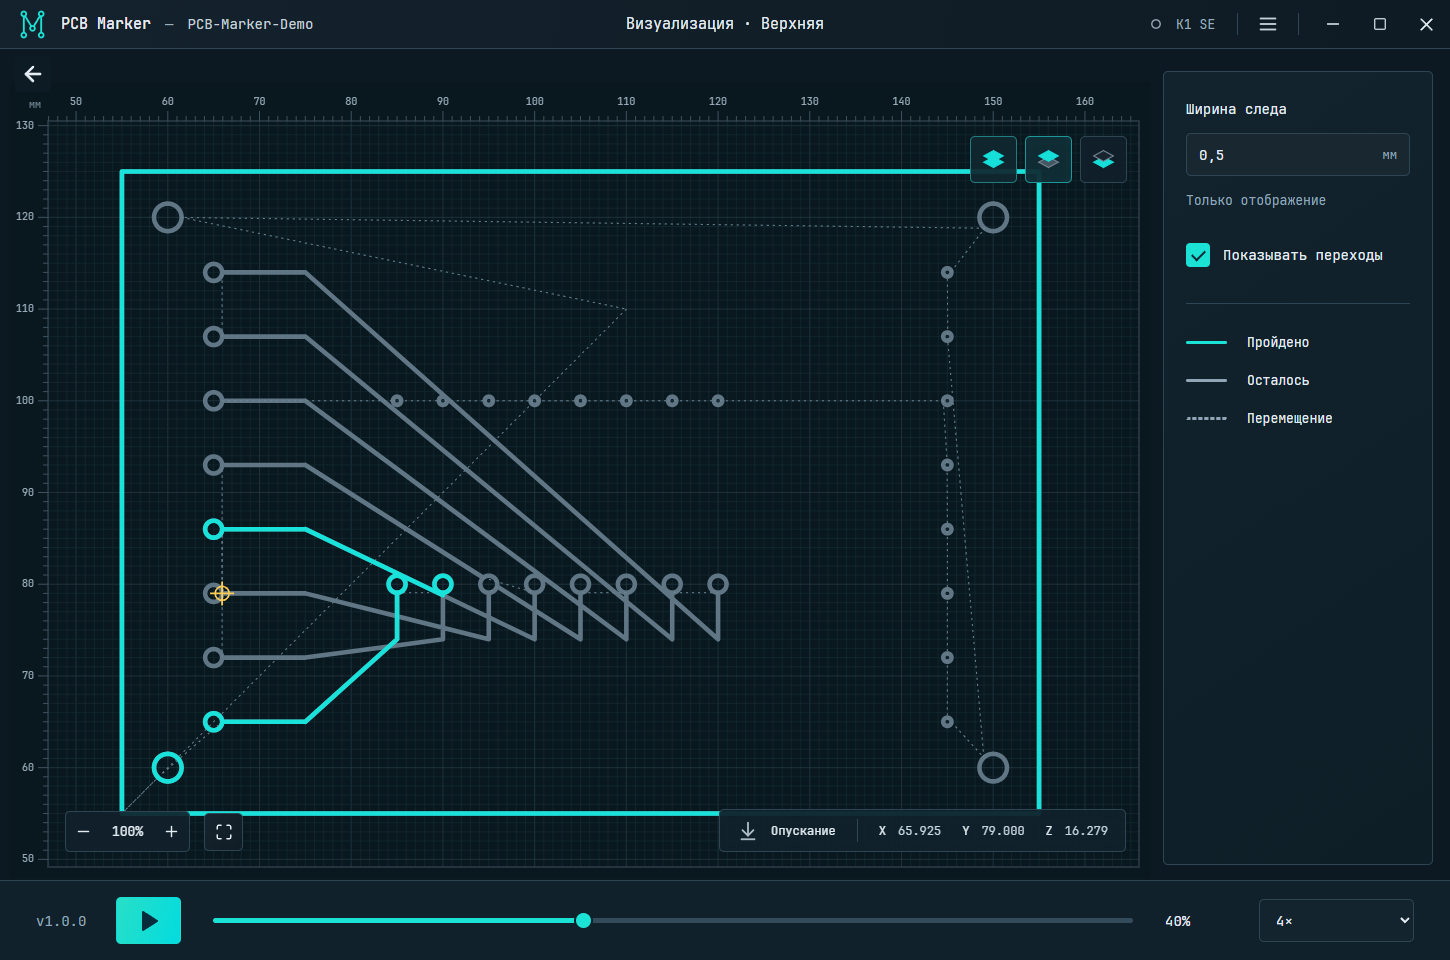
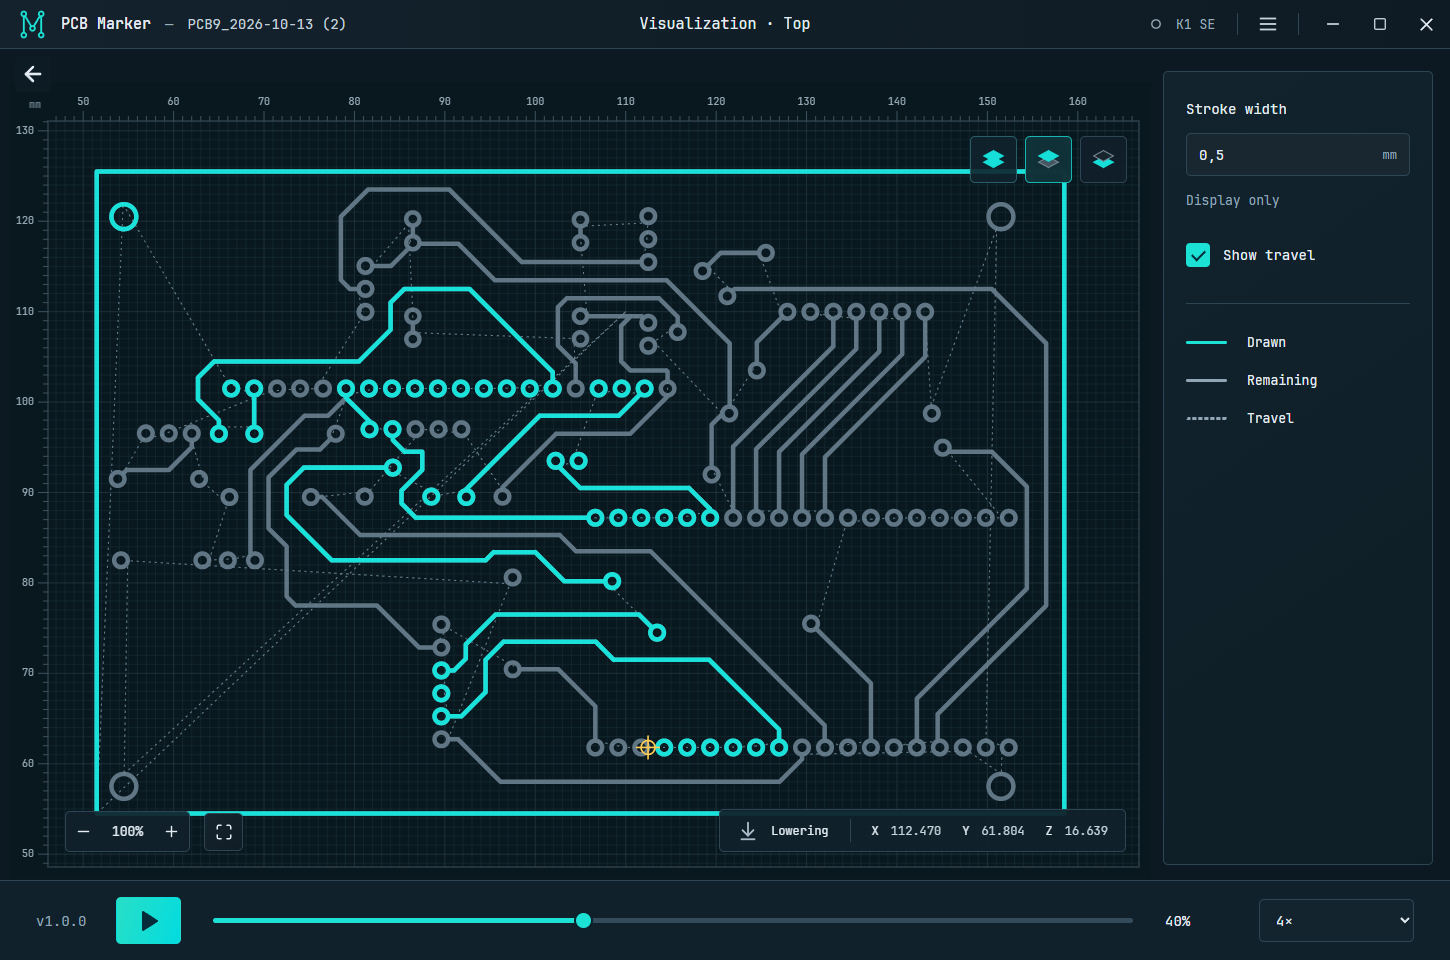
Use English documentation and screenshots of the provided PCB

diff --git a/README.md b/README.md
@@ -1,116 +1,115 @@
 <p align="center">
-  <img src="https://raw.githubusercontent.com/zufari4/pcb-marker/main/assets/icon.png" width="112" alt="PCB Marker — буква М из дорожек и контактных колец">
+  <img src="https://raw.githubusercontent.com/zufari4/pcb-marker/main/assets/icon.png" width="112" alt="PCB Marker — an M made of PCB traces and pads">
 </p>
 <h1 align="center">PCB Marker</h1>
-<p align="center"><b>От Gerber-файла до рисунка на плате — вашим 3D-принтером.</b></p>
-<p align="center">Маркер, заготовка и понятный интерфейс. Загрузите плату, проверьте маршрут и начинайте рисовать.</p>
+<p align="center"><b>Turn your 3D printer into a PCB marker plotter.</b></p>
+<p align="center">Open a Gerber file, align your board, preview the path, and start drawing.</p>
 <p align="center">
-  <a href="https://github.com/zufari4/pcb-marker/releases/latest">Скачать для Windows</a> ·
-  <a href="#-первый-запуск">Первый запуск</a> ·
-  <a href="https://github.com/zufari4/pcb-marker/issues">Обратная связь</a>
+  <a href="https://github.com/zufari4/pcb-marker/releases/latest">Download for Windows</a> ·
+  <a href="#-getting-started">Getting started</a> ·
+  <a href="https://github.com/zufari4/pcb-marker/issues">Feedback</a>
 </p>
-<p align="center">Windows x64 · Русский / English · MIT · Автор: <b>zufari</b></p>
+<p align="center">Windows x64 · English / Russian · MIT</p>
 
-![Просмотр платы в PCB Marker](https://raw.githubusercontent.com/zufari4/pcb-marker/main/docs/screenshots/board.png)
+![Board view in PCB Marker](https://raw.githubusercontent.com/zufari4/pcb-marker/main/docs/screenshots/board.png)
 
-## ✨ Что умеет PCB Marker
+## ✨ What you can do
 
-- **Открывает Gerber ZIP** — перетащите архив в окно или выберите «Открыть файл» в меню.
-- **Показывает обе стороны** — переключайте верхнюю, нижнюю или смотрите их вместе. Масштаб сохраняется.
-- **Привязывает рисунок по четырём углам** — учитывает положение и поворот заготовки, сохраняя масштаб 1:1.
-- **Помогает проверить маршрут** — визуализация и пробный прогон без касания платы.
-- **Рисует дорожки и контактные площадки** — при желании добавляет границы платы.
-- **Показывает выполнение** — пройденные участки, положение маркера и процент готовности. Пауза, продолжение и остановка рядом.
-- **Даёт настроить движение** — отдельные скорости рисования, переходов, подъёма и опускания Z.
-- **Говорит на двух языках** — русский, English или язык системы. Шрифт встроен, интернет для интерфейса не нужен.
-- **Экспортирует G-code** и проверяет наличие новых версий по вашему запросу.
+- **Open Gerber ZIP files** — drop an archive into the app or choose Open file from the menu.
+- **View both sides** — switch between top, bottom, or both layers without losing your zoom level.
+- **Align with four corners** — account for board position and rotation while keeping a 1:1 scale.
+- **Preview before drawing** — inspect the route and run it above the board without making contact.
+- **Draw tracks and pad rings** — optionally add the board boundaries.
+- **Follow the progress** — see completed paths, marker position, and progress, with pause, resume, and stop close at hand.
+- **Tune the motion** — set drawing, travel, Z lift, and Z lowering speeds separately.
+- **Choose your language** — English, Russian, or your system language. The included font works offline.
+- **Export G-code** and check for new versions from the menu.
 
-## 📥 Установка
+## 📥 Installation
 
-### Готовое приложение
+### Windows app
 
-[**Скачать последнюю версию →**](https://github.com/zufari4/pcb-marker/releases/latest)
+[**Download the latest release →**](https://github.com/zufari4/pcb-marker/releases/latest)
 
-| Файл | Как использовать |
+| File | How to use it |
 | --- | --- |
-| **PCB-Marker-Setup.exe** | Запустите установщик и следуйте подсказкам |
-| **PCB-Marker-Windows-x64.zip** | Распакуйте всю папку и откройте `PCB Marker.exe` |
+| **PCB-Marker-Setup.exe** | Run the installer and follow the steps |
+| **PCB-Marker-Windows-x64.zip** | Extract the entire archive and open `PCB Marker.exe` |
 
-Python и Node.js для готовой Windows-сборки не нужны. ZIP также хранит настройки
-в профиле пользователя Windows. Сборки пока без цифровой подписи, поэтому при
-первом запуске Windows может показать предупреждение.
+The Windows downloads include everything you need — no Python or Node.js installation required.
+Both versions save settings in your Windows user profile. Builds are currently unsigned,
+so Windows may display a warning on first launch.
 
-### Через npm
+### Install with npm
 
-Пакет **подготовлен к публикации**, но пока не опубликован в реестре npm.
-После публикации установите его командой (нужен Node.js 22.12+):
+The package is **ready for publication but is not yet available on the npm registry**.
+Once published, install it with Node.js 22.12 or newer:
 
 ```sh
 npm install -g pcb-marker-desktop
 pcb-marker
 ```
 
-Откроется полноценное приложение с графическим интерфейсом. До публикации
-можно установить `.tgz` из [релиза](https://github.com/zufari4/pcb-marker/releases):
+This opens the full desktop app. Until registry publication, download the `.tgz`
+package from [Releases](https://github.com/zufari4/pcb-marker/releases/latest) and install it locally:
 
 ```sh
 npm install -g ./pcb-marker-desktop-1.0.0.tgz
 pcb-marker
 ```
 
-## 🚀 Первый запуск
+The first npm launch may download the desktop runtime.
 
-1. Закрепите маркер и заготовку. Выполните Home на принтере, убедившись, что маркер и плата не мешают движению.
-2. В **Настройках** укажите адрес принтера и данные SSH. Подключитесь, задайте Z касания и отрыв.
-3. Откройте Gerber ZIP через первый пункт меню или перетащите файл в окно.
-4. В **Привязке по углам** подведите маркер к каждому углу заготовки и считайте координаты.
-5. Выберите сторону платы, посмотрите **Визуализацию**, затем выполните **Пробный прогон**.
-6. Если всё совпадает, нажмите **Начать рисование**.
+## 🚀 Getting started
 
-При изменении положения платы или маркера привязку нужно выполнить заново.
-Сохранённые координаты не заменяют Home после отключения моторов.
+1. Home the printer with the board and marker clear of its moving parts.
+2. Open **Settings**, enter your printer address and SSH credentials, and connect. Set the contact Z and lift height.
+3. Open a Gerber ZIP from the menu or drag it into the app.
+4. Open **Corner registration**, move the marker to each corner, and read its coordinates.
+5. Choose a board side, inspect **Visualization**, and perform a **Dry run**.
+6. When the alignment is right, select **Start drawing**.
 
-## 🖼 Всё нужное перед глазами
+Register the corners again whenever you move the board or marker.
+Saved coordinates do not replace homing after the motors have been disabled.
 
-**Настройки — подключение, рисование и скорости в отдельных разделах.**
+## 🖼 A closer look
 
-![Настройки PCB Marker](https://raw.githubusercontent.com/zufari4/pcb-marker/main/docs/screenshots/settings.png)
+**Settings — connection, drawing, and speeds in one place.**
 
-**Привязка — четыре точки и наглядное положение заготовки.**
+![PCB Marker settings](https://raw.githubusercontent.com/zufari4/pcb-marker/main/docs/screenshots/settings.png)
 
-![Привязка по углам](https://raw.githubusercontent.com/zufari4/pcb-marker/main/docs/screenshots/corners.png)
+**Corner registration — four points and a clear view of your board's position.**
 
-**Визуализация — проверьте путь маркера до запуска.**
+![Corner registration](https://raw.githubusercontent.com/zufari4/pcb-marker/main/docs/screenshots/corners.png)
 
-![Визуализация маршрута](https://raw.githubusercontent.com/zufari4/pcb-marker/main/docs/screenshots/preview.png)
+**Visualization — inspect the marker's route before starting.**
 
-Скриншоты сделаны на демонстрационной плате.
+![Route visualization](https://raw.githubusercontent.com/zufari4/pcb-marker/main/docs/screenshots/preview.png)
 
-## 🖨 Совместимость
+## 🖨 Compatibility
 
-Начальный профиль рассчитан на **Creality K1 SE с Klipper и доступом по SSH**.
-Рабочая область: X/Y — 0–220 мм, Z — 0–250 мм. Для других принтеров нужна
-проверка совместимости; изменение имени принтера не меняет его профиль.
+The initial printer profile targets **Creality K1 SE with Klipper and SSH access**.
+Its working area is X/Y: 0–220 mm and Z: 0–250 mm. Other printers need compatibility
+verification; changing the printer name does not change this profile.
 
-Поддерживаются верхний и нижний слои меди, контур платы и файлы сверловки
-в Gerber ZIP, включая распространённые имена слоёв KiCad и EasyEDA.
-Сплошные заливки меди не закрашиваются. Нижняя сторона зеркалится автоматически.
+PCB Marker reads top and bottom copper, board outlines, and drill files from Gerber ZIP archives,
+including common KiCad and EasyEDA layer names. Solid copper regions are not filled.
+The bottom side is mirrored automatically.
 
-Приложение не выполняет Home автоматически. Если связь пропала, принтер может
-продолжить задание — восстановите подключение, чтобы увидеть его состояние.
-Процент выполнения является оценкой; завершение подтверждается принтером.
+The app does not home the printer automatically. If the connection drops, the printer
+may continue the job; reconnect to see its state. Progress is an estimate, and completion
+is confirmed by the printer.
 
-## 💬 Вопросы и идеи
+## 💬 Questions and ideas
 
-[Создайте обращение](https://github.com/zufari4/pcb-marker/issues) и приложите
-версию программы, описание и скриншот. Не публикуйте пароли и личные настройки.
+[Open an issue](https://github.com/zufari4/pcb-marker/issues) with your app version,
+a description, and a screenshot. Keep passwords and private settings out of reports.
 
-В меню **«О программе»** находятся версия и автор. **«Проверить обновления»**
-сообщит о новом релизе и предложит открыть страницу скачивания.
+**About** shows the version and author. **Check for updates** lets you know when
+a new release is available and links to its download page.
 
-Для желающих помочь с кодом — [руководство разработчика](CONTRIBUTING.md).
+Want to contribute? See the [development guide](CONTRIBUTING.md).
 
 ---
 
-Сделано **zufari**. Исходный код распространяется по [лицензии MIT](LICENSE).
-Лицензии используемых компонентов указаны [отдельно](THIRD_PARTY_NOTICES.md).
+Released under the [MIT License](LICENSE).

diff --git a/releases/README.md b/releases/README.md
@@ -1,15 +1,15 @@
-# Скачать PCB Marker
+# Download PCB Marker
 
-Все готовые версии находятся в [GitHub Releases](https://github.com/zufari4/pcb-marker/releases).
+All published versions are available in [GitHub Releases](https://github.com/zufari4/pcb-marker/releases).
 
-| Вариант | Для кого |
+| Download | How to use it |
 | --- | --- |
-| [Инсталлятор Windows x64](https://github.com/zufari4/pcb-marker/releases/latest/download/PCB-Marker-Setup.exe) | Обычная установка с ярлыком приложения |
-| [ZIP Windows x64](https://github.com/zufari4/pcb-marker/releases/latest/download/PCB-Marker-Windows-x64.zip) | Распакуйте целиком и запустите `PCB Marker.exe` |
-| [SHA-256](https://github.com/zufari4/pcb-marker/releases/latest/download/SHA256SUMS.txt) | Контрольные суммы файлов |
+| [Windows x64 installer](https://github.com/zufari4/pcb-marker/releases/latest/download/PCB-Marker-Setup.exe) | Install the app with a desktop shortcut |
+| [Windows x64 ZIP](https://github.com/zufari4/pcb-marker/releases/latest/download/PCB-Marker-Windows-x64.zip) | Extract the entire archive and open `PCB Marker.exe` |
+| [SHA-256 checksums](https://github.com/zufari4/pcb-marker/releases/latest/download/SHA256SUMS.txt) | Verify the downloaded files |
 
-Приложение не подписано цифровым сертификатом: Windows может показывать
-предупреждение при первом запуске. Скачивайте сборки только со страницы проекта.
+Builds are currently unsigned, so Windows may display a warning on first launch.
+Download the app from this project's release page.
 
-ZIP не требует установки, но настройки хранит в профиле пользователя Windows.
-Сам архив исходников **Source code (zip)** не является готовым приложением.
+The ZIP requires no installation but saves settings in your Windows user profile.
+GitHub's **Source code (zip)** download contains source files, not the ready-to-run app.

diff --git a/releases/NOTES.md b/releases/NOTES.md
@@ -1,17 +1,18 @@
-Первый публичный выпуск PCB Marker.
+The first public release of PCB Marker.
 
-- Gerber ZIP, просмотр обеих сторон и привязка по четырём углам.
-- Визуализация маршрута, пробный прогон и рисование маркером.
-- Прогресс, положение, пауза, продолжение и остановка задания.
-- Отдельные скорости рисования, переходов и движений Z.
-- Русский и английский интерфейс, встроенный JetBrains Mono.
-- «О программе» и ручная проверка обновлений.
+- Open Gerber ZIP files, view both board sides, and align using four corners.
+- Preview the route, perform a dry run, and draw with a marker.
+- Follow progress and position; pause, resume, or stop a job.
+- Set drawing, travel, Z lift, and Z lowering speeds separately.
+- English and Russian interface with the included JetBrains Mono font.
+- About page and manual update checks.
 
-**Windows x64:** `PCB-Marker-Setup.exe` — установка;
-`PCB-Marker-Windows-x64.zip` — запуск после распаковки.
-Сборка не подписана цифровым сертификатом.
+**Windows x64:** use `PCB-Marker-Setup.exe` to install the app, or extract
+`PCB-Marker-Windows-x64.zip` and launch `PCB Marker.exe`.
+These builds are unsigned.
 
-Начальный профиль рассчитан на Creality K1 SE с SSH и Klipper.
-Перед рисованием проверьте привязку и Z касания, выполните пробный прогон.
+The initial profile targets Creality K1 SE with SSH and Klipper.
+Check corner registration and contact Z, then perform a dry run before drawing.
 
-Архив `.tgz` — подготовленный npm-пакет; публикация в реестр npm выполняется отдельно.
+The `.tgz` archive is a ready-to-install npm package. Publication to the npm
+registry is a separate step; until then, install the downloaded archive locally.

diff --git a/AGENTS.md b/AGENTS.md
@@ -33,6 +33,7 @@ Klipper-based 3D printer. Author: zufari. Keep the UI friendly and bilingual.
   without an explicit request. npm installation must launch the complete UI.
 - Keep installer/ZIP in GitHub Releases, not Git history. `releases/README.md`
   is the user-facing download directory. Tags `vX.Y.Z` trigger release CI.
-- Update README screenshots using the synthetic demo board, not private input.
+- Use the synthetic board for tests. Publication screenshots may use a user-provided
+  board only when the user explicitly requests it; do not commit the source archive.
 - Public release notes and README describe user capabilities; development detail
   belongs in CONTRIBUTING.md. Keep version numbers consistent with package.json.
